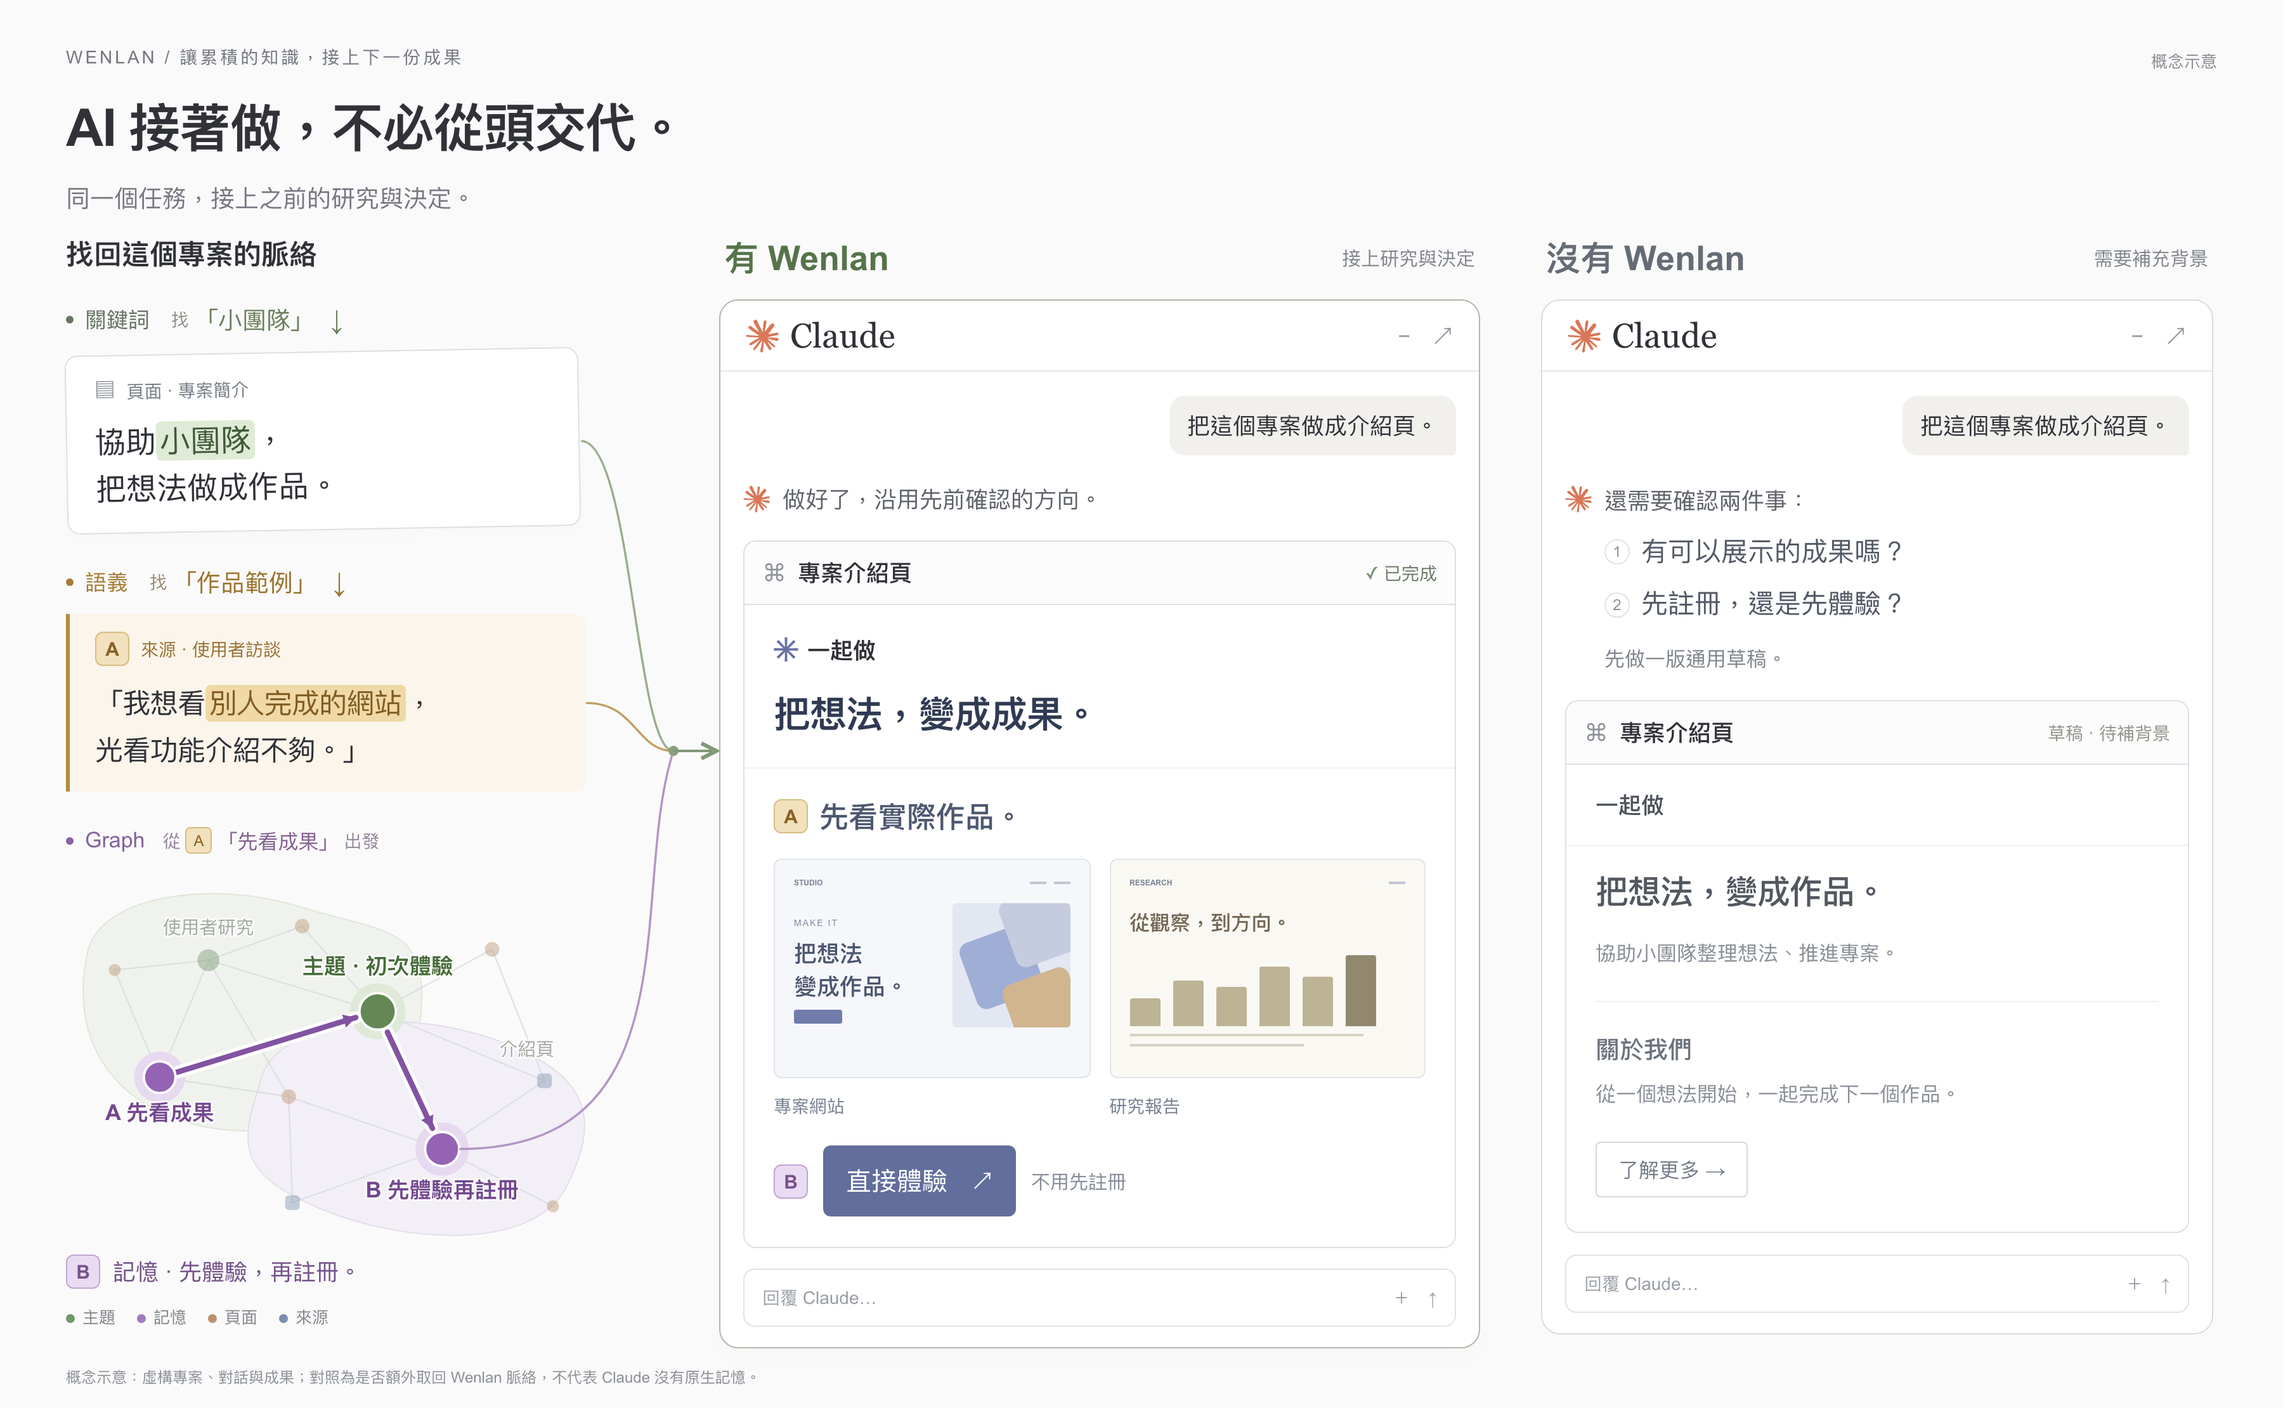
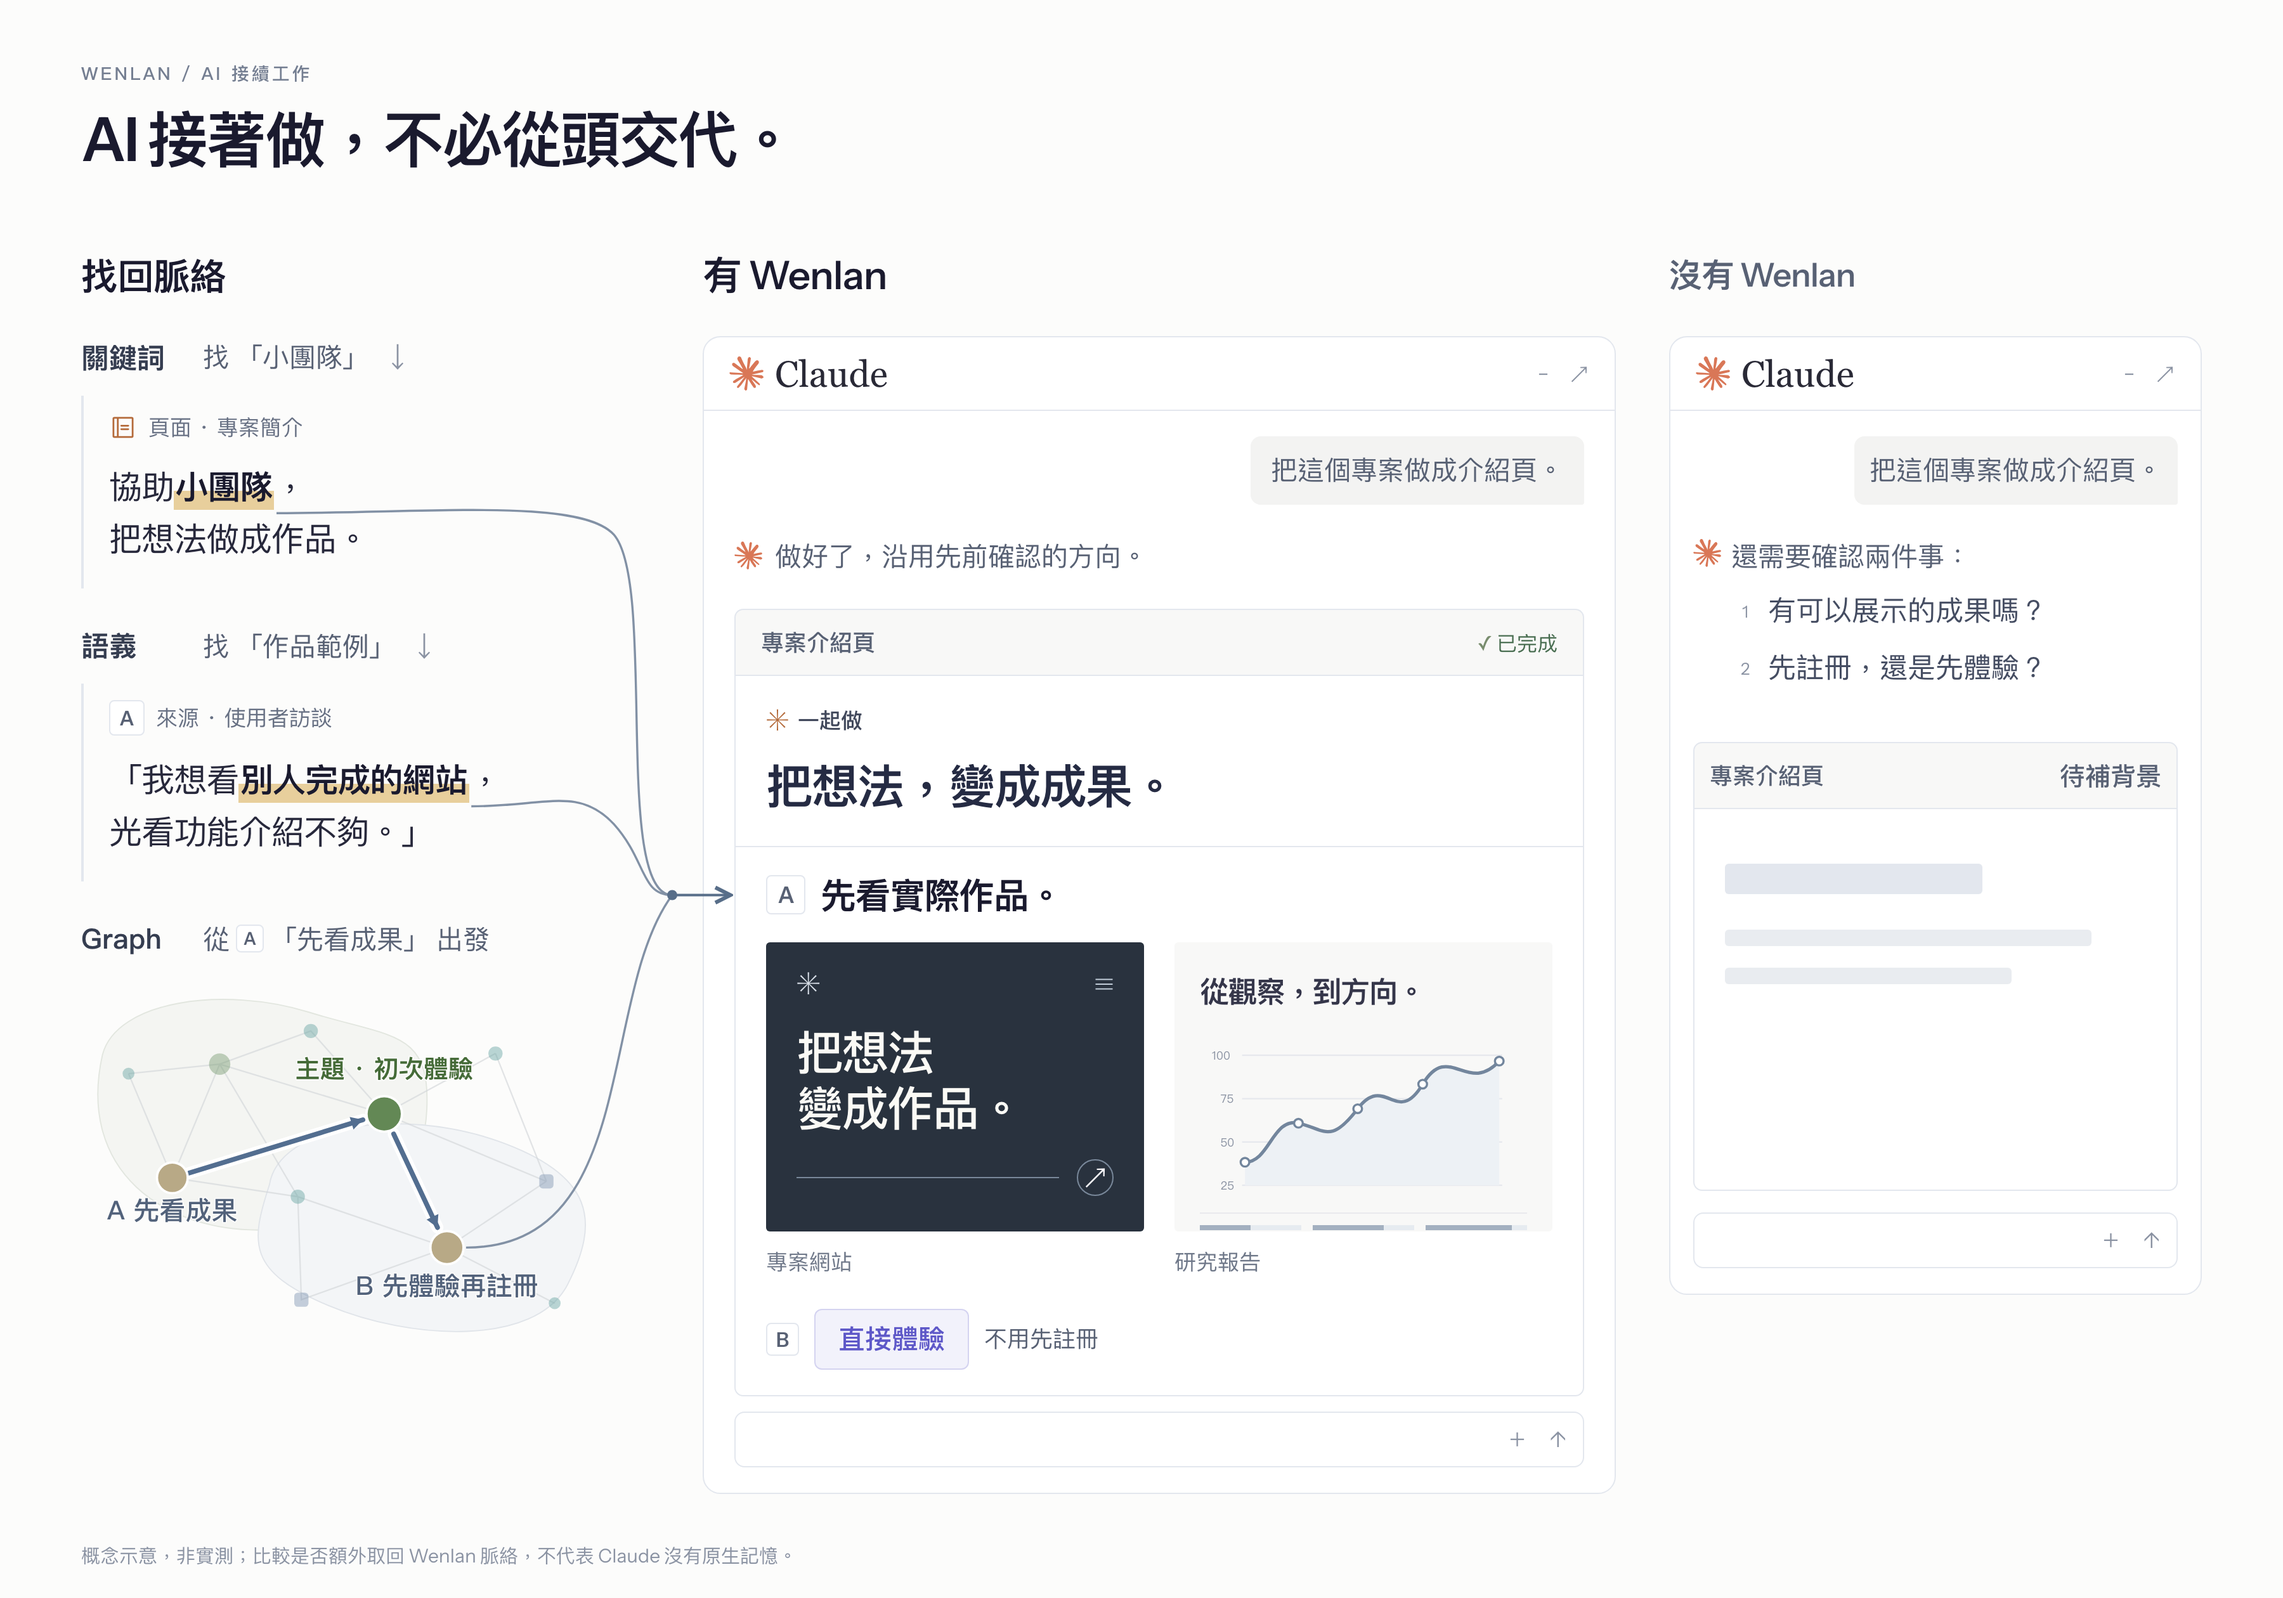
docs: refine AI work illustration for README readability

diff --git a/docs/assets/README.md b/docs/assets/README.md
@@ -22,8 +22,8 @@ See [screenshots and provenance](screenshots/README.md). Product captures use fi
 The four READMEs share these approved Traditional Chinese assets, with localized surrounding copy:
 
[1 lines of base64/hex data omitted]
-- `wenlan-knowledge-to-work-zh-Hant.png`: approved v24 concept illustration. The project, Claude conversations, and resulting websites are illustrative, not screenshots of a measured AI comparison. It shows how keyword, semantic, and graph retrieval can bring additional Wenlan context into a task; it does not claim Claude lacks native memory.
+- `wenlan-knowledge-to-work-zh-Hant.png`: Approved v24 concept illustration with the approved ai-work-polish-v11 typography and layout refinement. The project, Claude conversations, and resulting websites are illustrative, not screenshots of a measured AI comparison. It shows how keyword, semantic, and graph retrieval can bring additional Wenlan context into a task; it does not claim Claude lacks native memory.
 
[1 lines of base64/hex data omitted]
 
-The first two compositions remain unchanged. Older product captures and concept assets remain available for reference.
+The first composition and personal knowledge graph remain unchanged by the AI-work refinement. Older product captures and concept assets remain available for reference.
